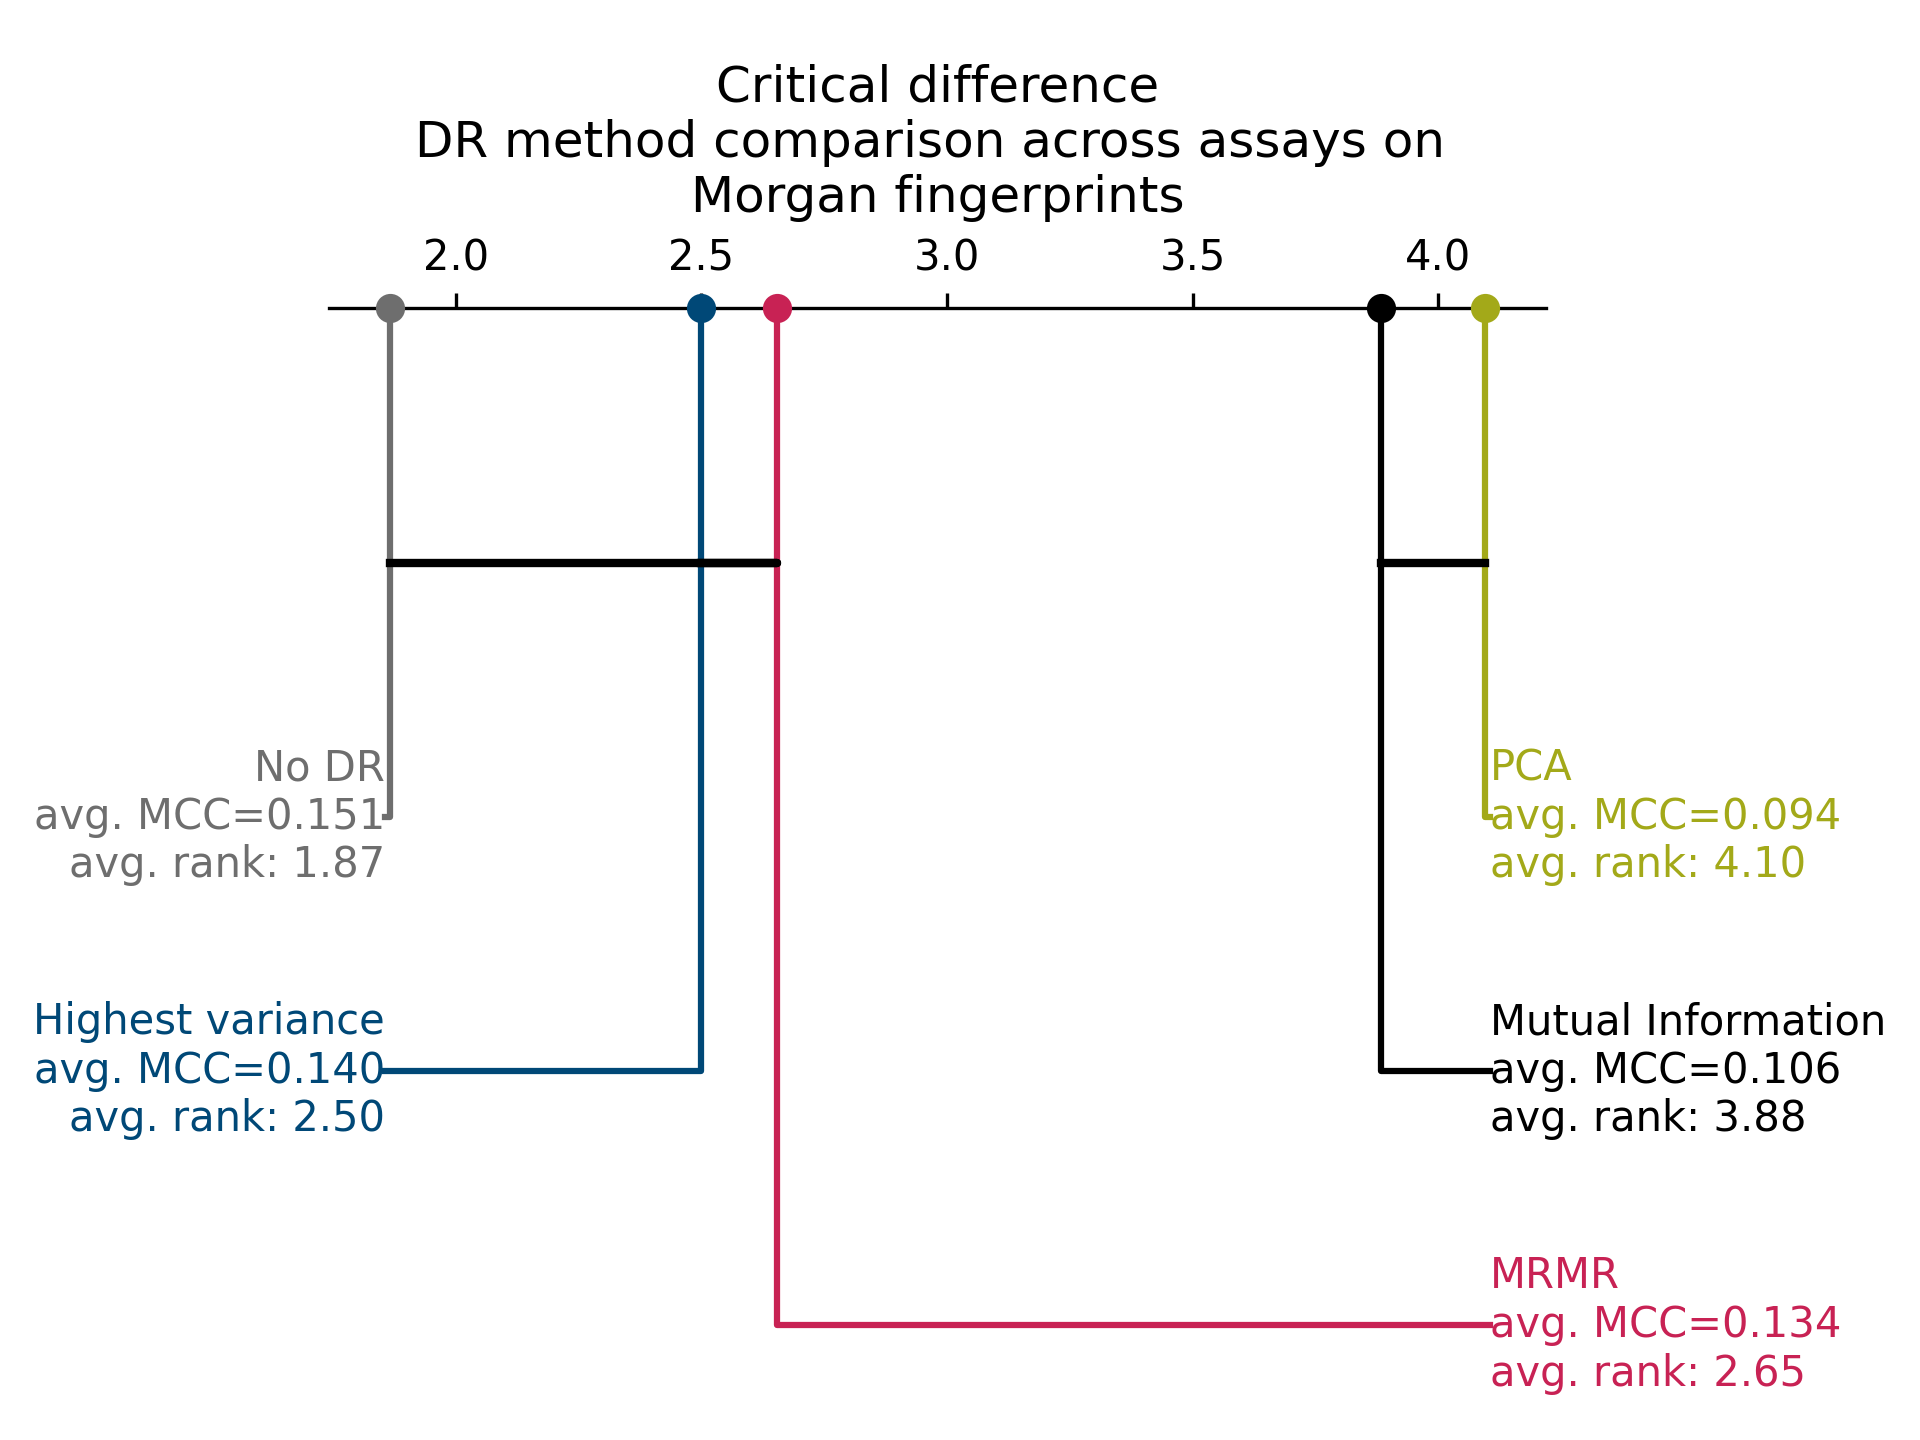
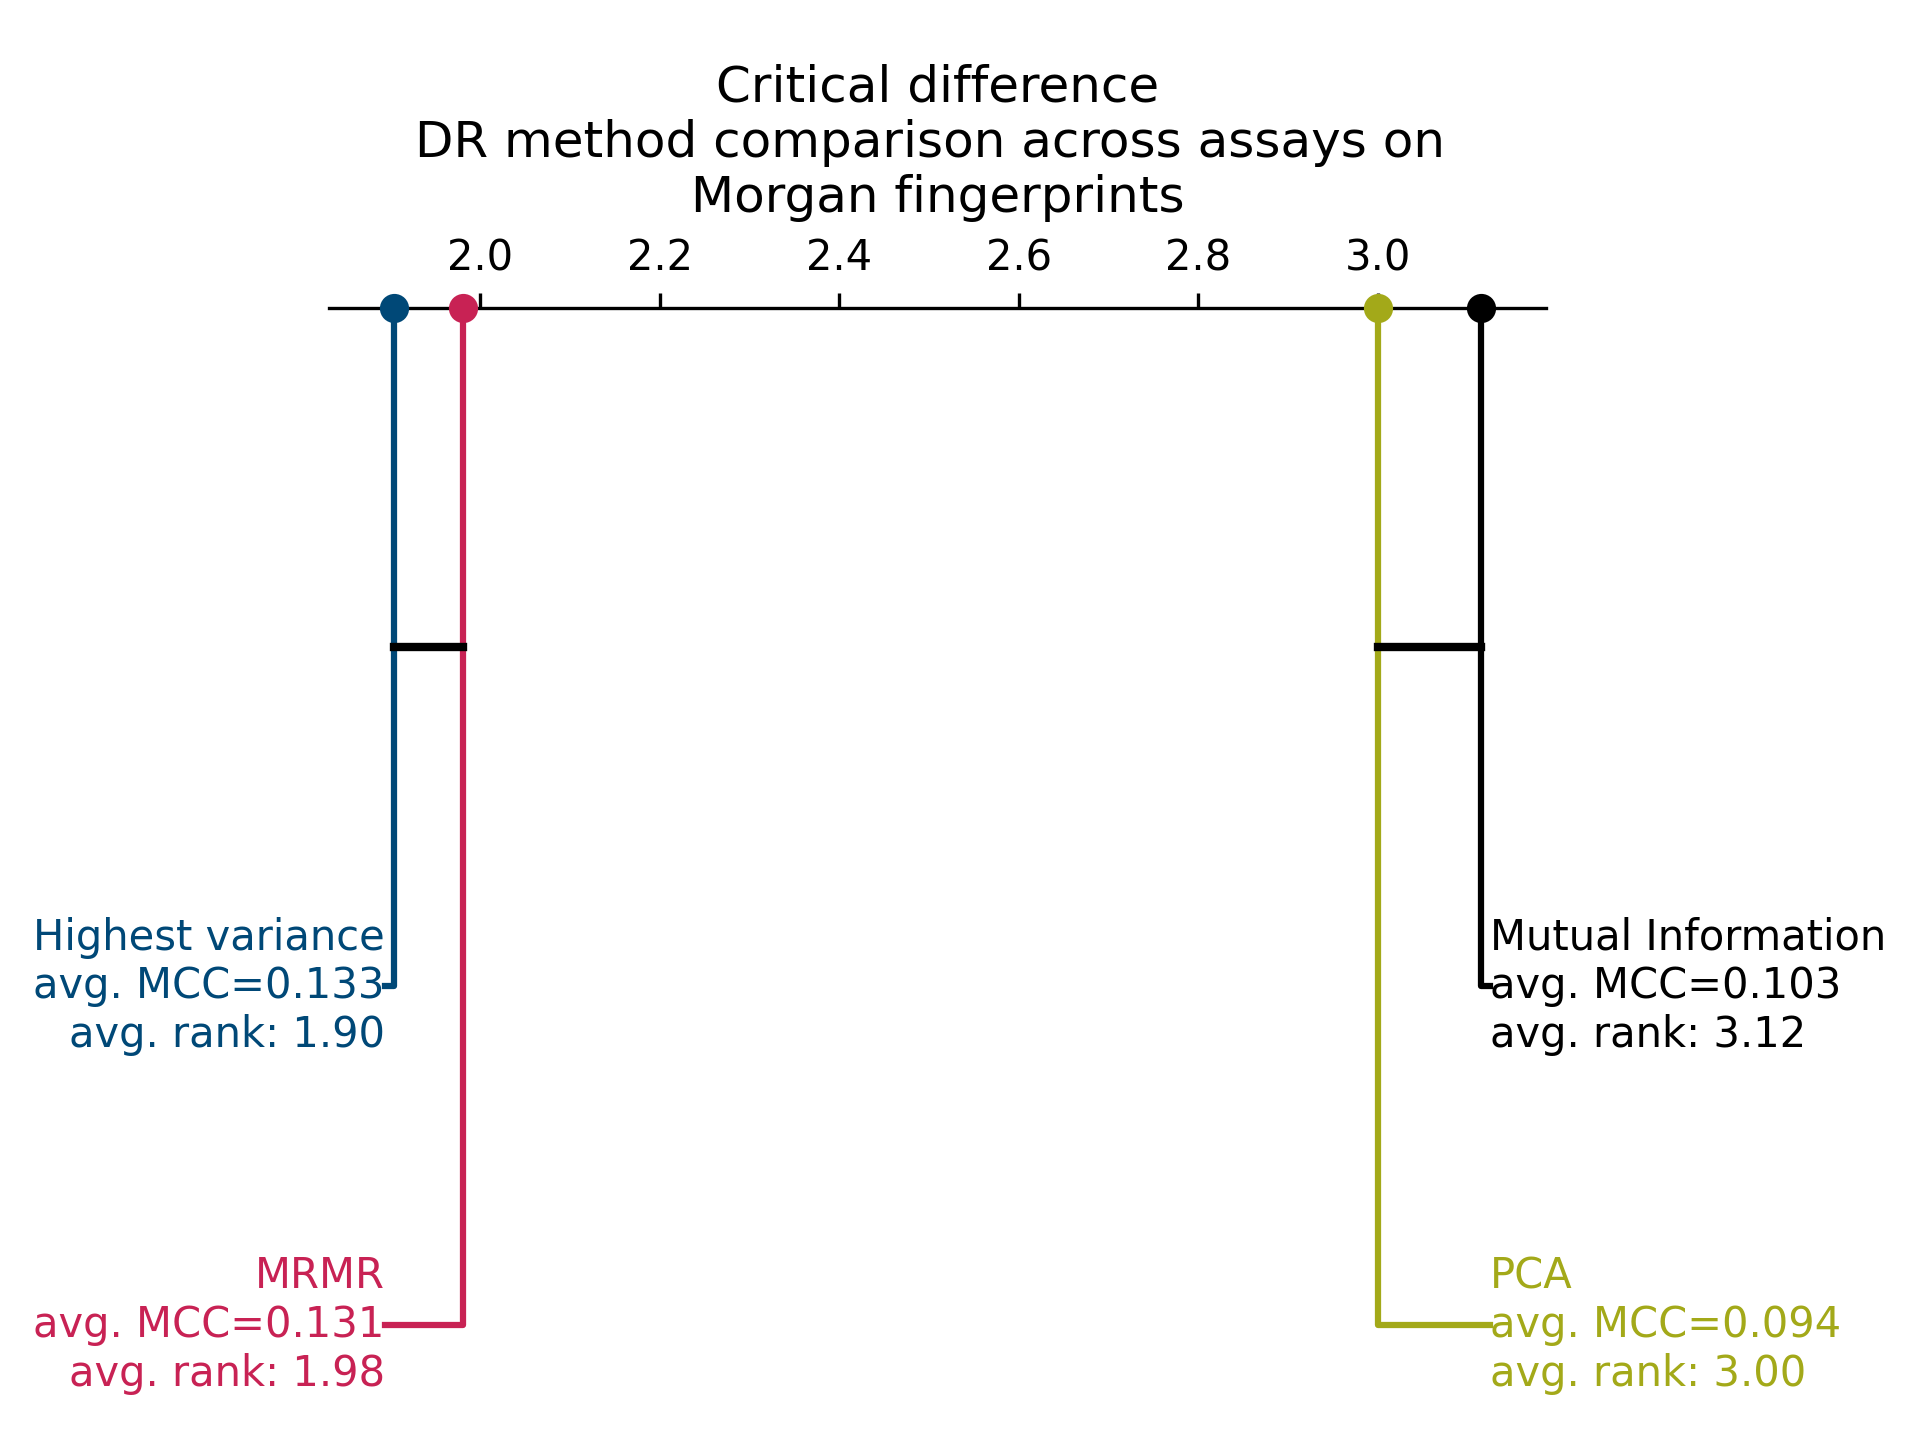
modified plotting scripts so that DR and representation are evaluated per model

diff --git a/evaluation/generate_DR_method_comparison_across_and_per_model.py b/evaluation/generate_DR_method_comparison_across_and_per_model.py
@@ -7,6 +7,7 @@ from scipy.stats import friedmanchisquare, f
 import scikit_posthocs as sp
 from matplotlib.colors import LinearSegmentedColormap, TwoSlopeNorm
 import argparse
+import copy
 
 custom_palette = {
     "mrmr": "#c82254",
@@ -28,7 +29,7 @@ def inverse_fisher_z(z):
     return np.tanh(z)
 
 
-def cd_plot_for_nemenyi(final_results, dr_name_map, feature_type, feature_name_map, output_dir):
+def cd_plot_for_nemenyi(final_results, dr_name_map, feature_type, feature_name_map, output_dir, model = None):
     final_results['mcc_z'] = fisher_z(final_results['mcc'])
     means = (
         final_results.groupby(['assay', 'dr_method'], as_index=False)['mcc_z']
@@ -92,9 +93,12 @@ def cd_plot_for_nemenyi(final_results, dr_name_map, feature_type, feature_name_m
     plt.title(
         f"DR method comparison across assays and models on \n{feature_name_map[feature_type]} ")
     plt.tight_layout()
-    plt.savefig(f'{output_dir}/{feature_type}_nemenyi_pval_heatmap_comparing_dr_methods.png',
-                dpi=300, transparent=False)
-
+    if model is None:
+        plt.savefig(f'{output_dir}/{feature_type}_nemenyi_pval_heatmap_comparing_dr_methods.png',
+                    dpi=300, transparent=False)
+    else:
+        plt.savefig(f'{output_dir}/{feature_type}_nemenyi_pval_heatmap_comparing_dr_methods_{model}.png',
+                    dpi=300, transparent=False)
     pvals.index = avg_ranks.index
     pvals.columns = avg_ranks.index
 
@@ -115,9 +119,12 @@ def cd_plot_for_nemenyi(final_results, dr_name_map, feature_type, feature_name_m
     plt.title(
         f"Critical difference\nDR method comparison across assays on \n{feature_name_map[feature_type]}")
     plt.tight_layout()
-    plt.savefig(f'{output_dir}/{feature_type}_critical_difference_plot_nemenyi_comparing_DR_methods.png',
-                dpi=300, transparent=False)
-
+    if model is None:
+        plt.savefig(f'{output_dir}/{feature_type}_critical_difference_plot_nemenyi_comparing_DR_methods.png',
+                    dpi=300, transparent=False)
+    else:
+        plt.savefig(f'{output_dir}/{feature_type}_critical_difference_plot_nemenyi_comparing_DR_methods_{model}.png',
+                    dpi=300, transparent=False)
 
 def pairwise_friedman_nemenyi(data):
     # Pivot the data to have one column per model and one row per subject
@@ -240,8 +247,12 @@ def main(args):
         "mlp": "MLP",
         "svm": "SVM",
         "cat_boost": "CatBoost",
-        "tabpfn": "TabPFN"
+        
     }
+    if not(args.tabpfn_missing in [
+                       'y', 'yes', 'true', 't', 'True']):
+        model_name_map["tabpfn"] = 'TabPFN'
+
     dr_name_map = {
         "pca": "PCA",
         "mrmr": "MRMR",
@@ -250,8 +261,10 @@ def main(args):
         "none": "No DR"
     }
 
-    cd_plot_for_nemenyi(final_results, dr_name_map,
+    cd_plot_for_nemenyi(copy.deepcopy(final_results), dr_name_map,
                         feature_type, feature_name_map, output_dir=out_dir)
+    for model in model_name_map.keys():
+        cd_plot_for_nemenyi(final_results=copy.deepcopy(final_results.loc[final_results['model'] == model, :]), feature_type=feature_type, feature_name_map=feature_name_map, dr_name_map=dr_name_map, output_dir=out_dir, model = model)
 
 
 if __name__ == "__main__":

diff --git a/evaluation/generate_representation_comparison_across_and_per_model.py b/evaluation/generate_representation_comparison_across_and_per_model.py
@@ -7,7 +7,7 @@ from scipy.stats import friedmanchisquare, f
 import scikit_posthocs as sp
 from matplotlib.colors import LinearSegmentedColormap, TwoSlopeNorm
 import argparse
-
+import copy
 custom_palette = {
     "physchem": "#c82254",
     "embeddings": "#a3a919",
@@ -27,7 +27,7 @@ def inverse_fisher_z(z):
     return np.tanh(z)
 
 
-def cd_plot_for_nemenyi(final_results, feature_name_map, output_dir):
+def cd_plot_for_nemenyi(final_results, feature_name_map, output_dir, model = None):
     final_results['mcc_z'] = fisher_z(final_results['mcc'])
     means = (
         final_results.groupby(['assay', 'feature_type'],
@@ -92,9 +92,12 @@ def cd_plot_for_nemenyi(final_results, feature_name_map, output_dir):
     plt.title(
         f"Compound representation comparison across assays, models, and DR methods")
     plt.tight_layout()
-    plt.savefig(f'{output_dir}/nemenyi_pval_heatmap_comparing_feature_types.png',
-                dpi=300, transparent=False)
-
+    if model is None:
+        plt.savefig(f'{output_dir}/nemenyi_pval_heatmap_comparing_feature_types.png',
+                    dpi=300, transparent=False)
+    else:
+        plt.savefig(f'{output_dir}/nemenyi_pval_heatmap_comparing_feature_types_{model}.png',
+                    dpi=300, transparent=False)
     pvals.index = avg_ranks.index
     pvals.columns = avg_ranks.index
 
@@ -115,9 +118,12 @@ def cd_plot_for_nemenyi(final_results, feature_name_map, output_dir):
     plt.title(
         f"Critical difference\nrepresentation comparison across assays, models, and DR methods")
     plt.tight_layout()
-    plt.savefig(f'{output_dir}/critical_difference_plot_nemenyi_comparing_representations.png',
-                dpi=300, transparent=False)
-
+    if model is None:
+        plt.savefig(f'{output_dir}/critical_difference_plot_nemenyi_comparing_representations.png',
+                    dpi=300, transparent=False)
+    else:
+        plt.savefig(f'{output_dir}/critical_difference_plot_nemenyi_comparing_representations_{model}.png',
+                    dpi=300, transparent=False)
 
 def pairwise_friedman_nemenyi(data):
     # Pivot the data to have one column per model and one row per subject
@@ -240,8 +246,12 @@ def main(args):
         "mlp": "MLP",
         "svm": "SVM",
         "cat_boost": "CatBoost",
-        "tabpfn": "TabPFN"
+        
     }
+    if not (args.tabpfn_missing in [
+                       'y', 'yes', 'true', 't', 'True']):
+        model_name_map["tabpfn"] = 'TabPFN'
+
     dr_name_map = {
         "pca": "PCA",
         "mrmr": "MRMR",
@@ -250,7 +260,13 @@ def main(args):
         "none": "No DR"
     }
 
-    cd_plot_for_nemenyi(final_results, feature_name_map, output_dir=out_dir)
+    cd_plot_for_nemenyi(copy.deepcopy(final_results),
+                        feature_name_map=feature_name_map, output_dir=out_dir)
+    for model in model_name_map.keys():
+        cd_plot_for_nemenyi(final_results=copy.deepcopy(final_results.loc[final_results['model'] == model, :]), feature_name_map=feature_name_map, output_dir=out_dir, model = model)
+
+
+
 
 
 if __name__ == "__main__":
